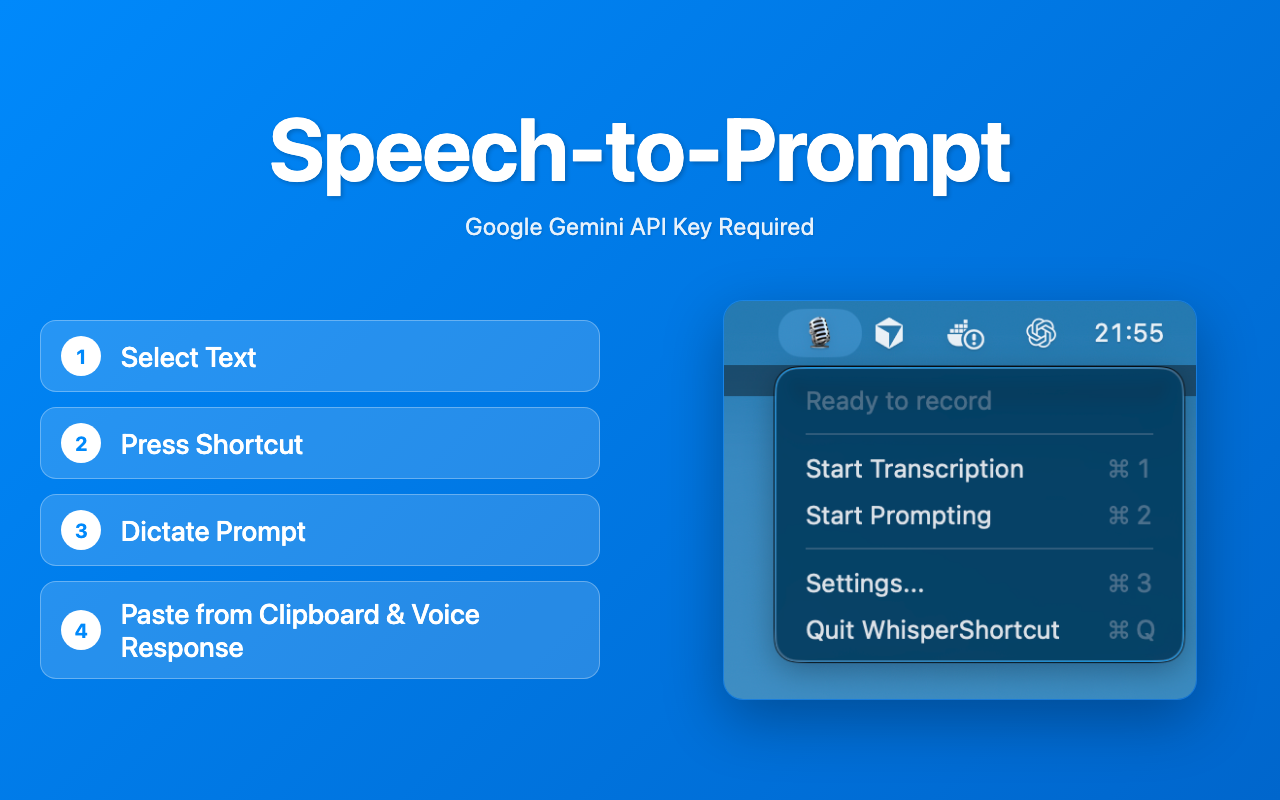
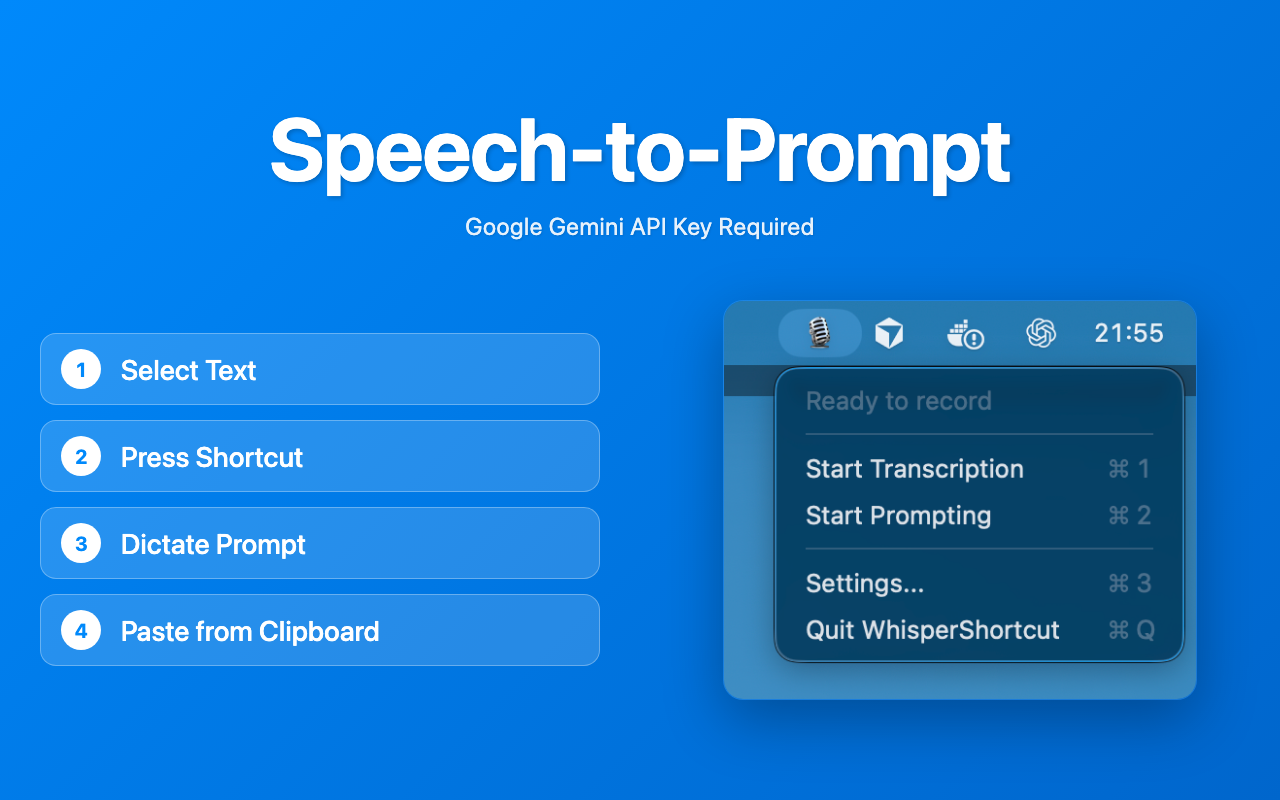
Updates step text in documentation
Refines step 4 text in the speech-to-prompt documentation for clarity and accuracy.

Removes the mention of "Voice Response" to accurately reflect the current functionality.

Changed region(s): [[0.0312, 0.375, 0.4688, 0.875]]

diff --git a/screenshots/html/speech-to-prompt.html b/screenshots/html/speech-to-prompt.html
@@ -156,7 +156,7 @@
             </div>
             <div class="step">
                 <div class="step-number">4</div>
-                <div class="step-text">Paste from Clipboard & Voice Response</div>
+                <div class="step-text">Paste from Clipboard</div>
             </div>
         </div>
 

diff --git a/screenshots/speech-to-prompt.html b/screenshots/speech-to-prompt.html
@@ -156,7 +156,7 @@
             </div>
             <div class="step">
                 <div class="step-number">4</div>
-                <div class="step-text">Paste from Clipboard & Voice Response</div>
+                <div class="step-text">Paste from Clipboard</div>
             </div>
         </div>
 
